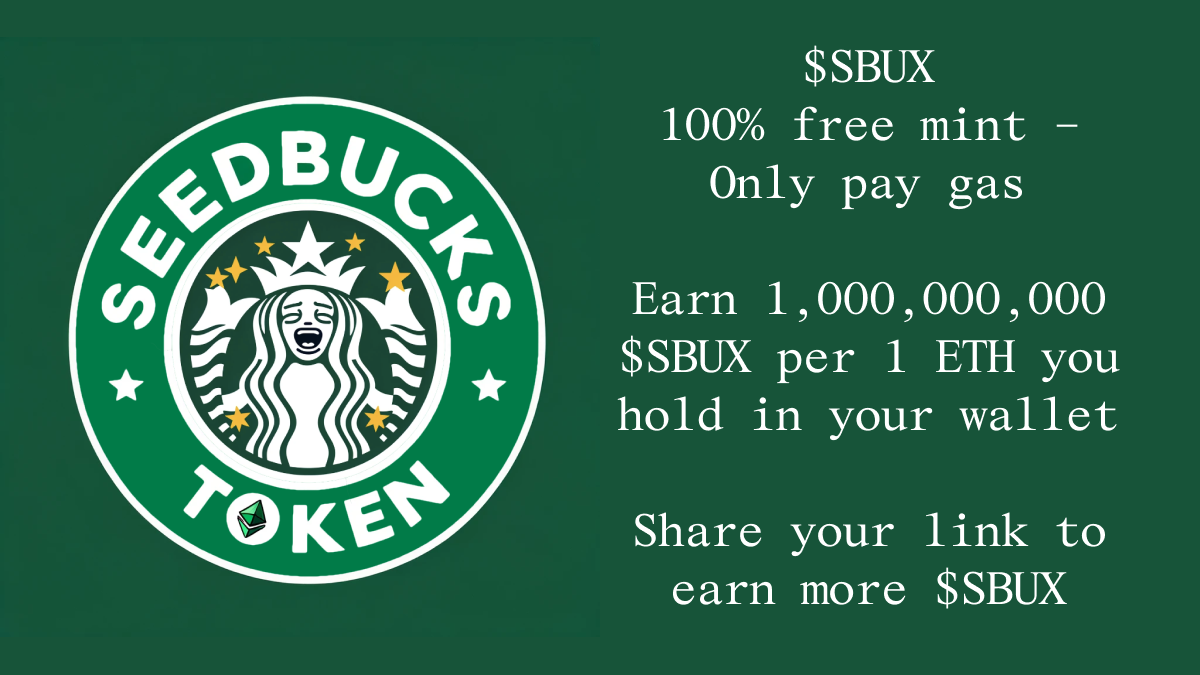
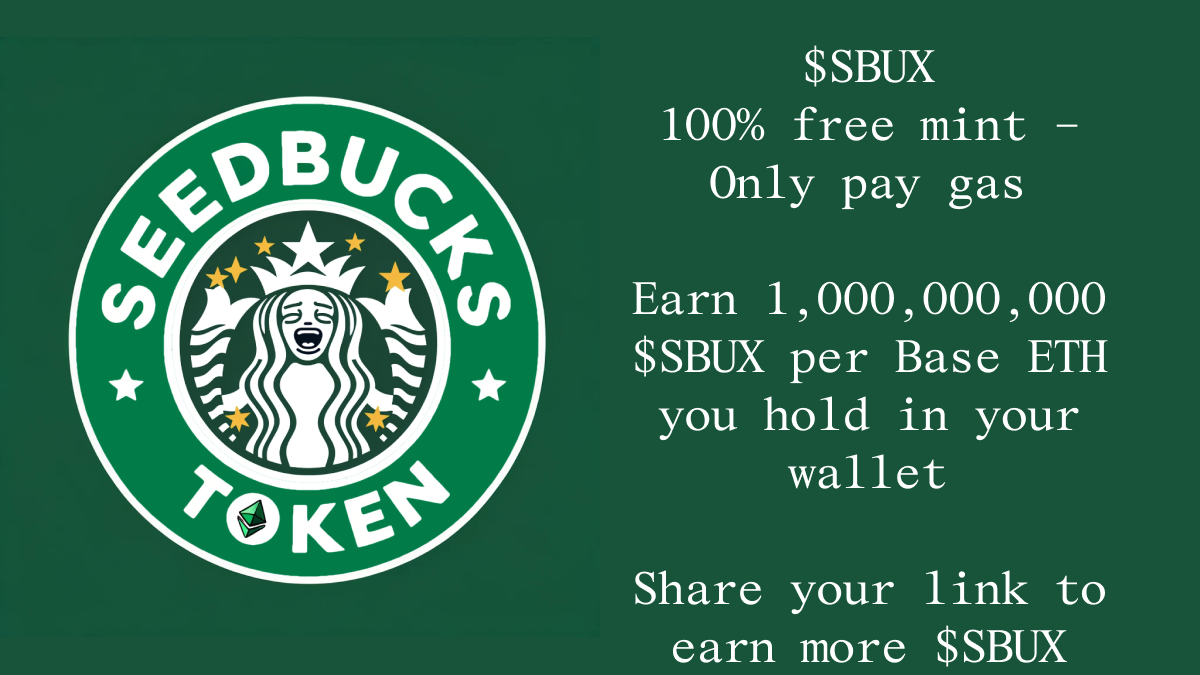
add redirect, update share image to clarify base

diff --git a/src/frameActions.ts b/src/frameActions.ts
@@ -26,7 +26,7 @@ export type FrameHandler = (
 export const externalHostname = 'https://seedbucks.xyz'
 
 export const images = {
-  mint: `https://seedbucks.xyz/static/share.png`,
+  mint: `https://seedbucks.xyz/static/share.png?v2`,
   successfulMint: `https://seedbucks.xyz/static/minted.png`,
   missingSeed: `https://seedbucks.xyz/static/missingseed.png`,
   alreadyMinted: `https://seedbucks.xyz/static/alreadyminted.png`,

diff --git a/src/common.ts b/src/common.ts
@@ -37,5 +37,8 @@ export const renderFrame = (c: Context, opts: renderFrameOptions) =>
         )
       })}
       <body></body>
+      <script>
+        window.location.href = 'https://warpcast.com/worm.eth/0x2f7eb39e'
+      </script>
     </html>`.toString(),
   )
